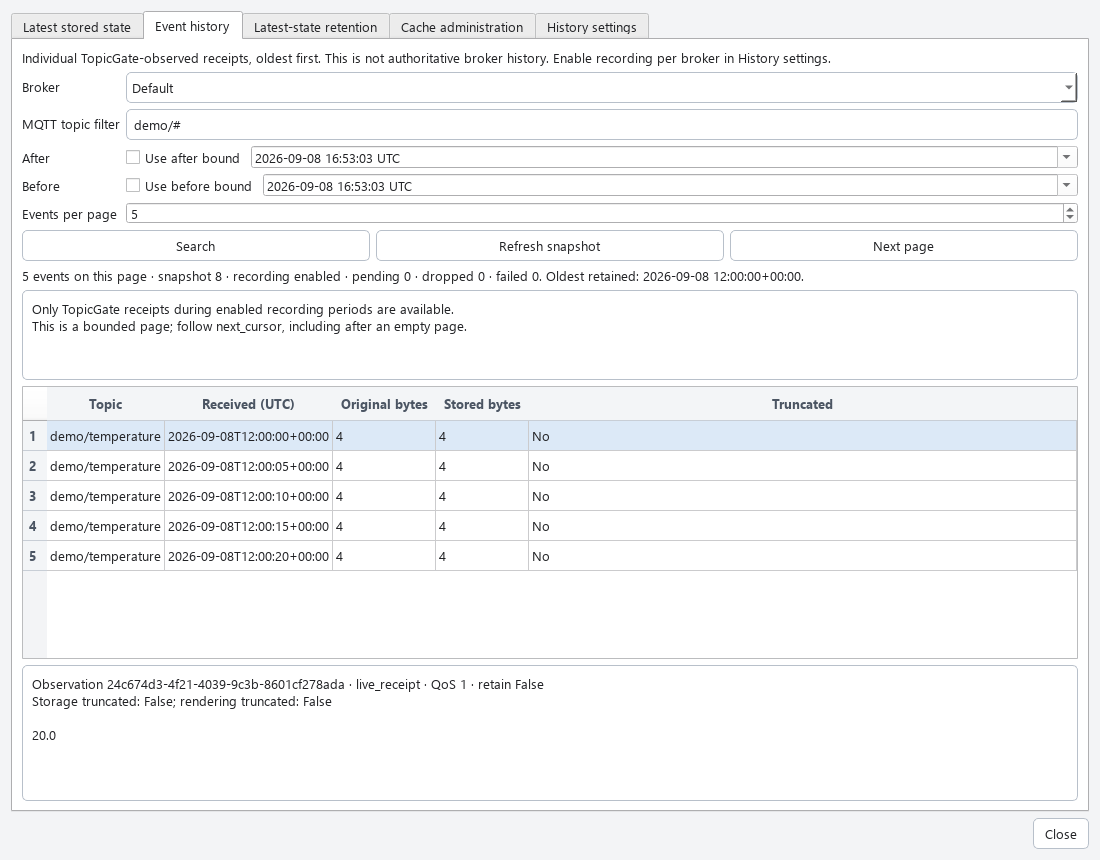
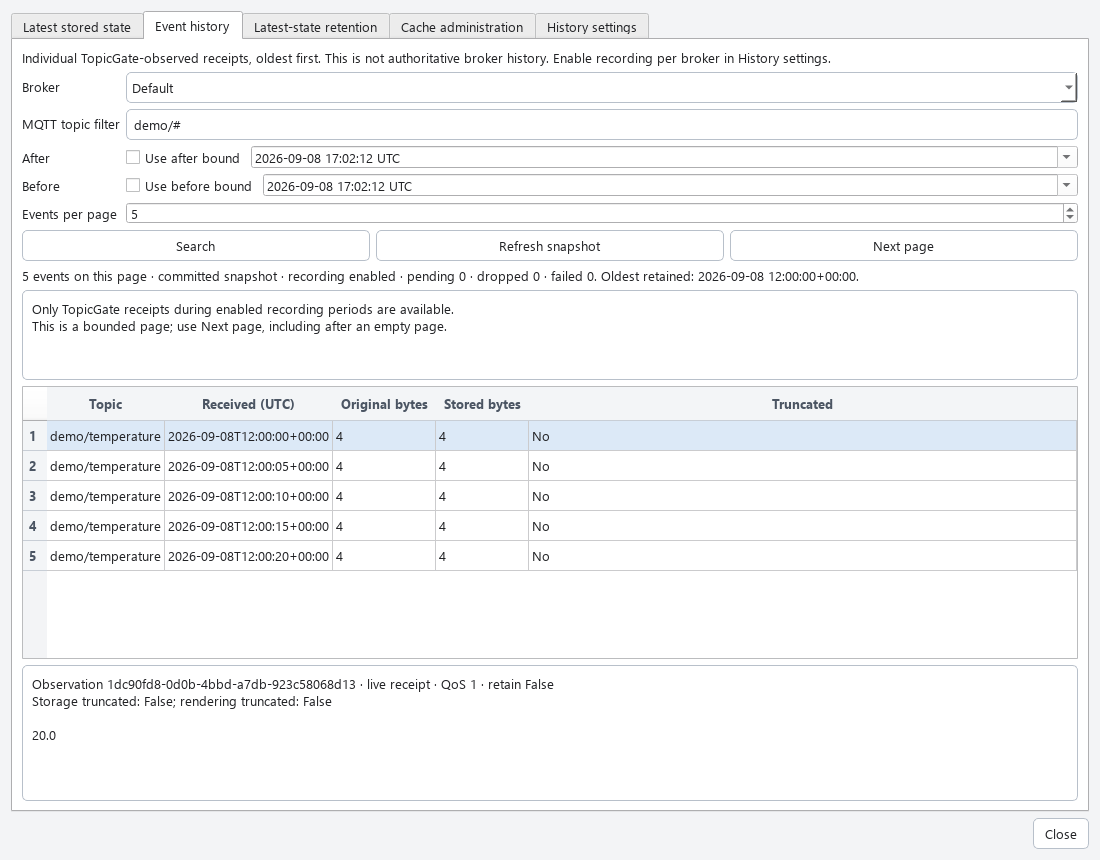
ObservationHistory: Harden Drain And Persistence Boundaries

diff --git a/tests/test_history_recording_service.py b/tests/test_history_recording_service.py
@@ -87,6 +87,63 @@ def test_writer_failure_is_visible_and_later_writes_continue(history_store):
     assert HistoryRecordingRepository(db).status(broker).failed == 1
 
 
+def test_checkpoint_failure_is_explicit_without_corrupting_event_store(history_store):
+    db, store, broker = history_store
+    settings = HistoryRecordingRepository(db)
+    service = HistoryRecordingService(store, settings)
+    service.set_enabled(broker, True)
+    settings.checkpoint = Mock(side_effect=RuntimeError("synthetic failure"))
+    service.record(event(broker))
+    with pytest.raises(RuntimeError, match="incomplete"):
+        service.close()
+    assert service.status(broker).checkpoint_failed
+    assert len(store.scan(broker).events) == 1
+    persisted = HistoryRecordingRepository(db).status(broker)
+    assert persisted.previous_unclean
+    assert persisted.pending == 0
+
+
+def test_broker_drain_failure_aborts_deletion_and_restores_admission(history_store):
+    from concurrent.futures import ThreadPoolExecutor
+
+    db, store, broker = history_store
+    entered, release = Event(), Event()
+
+    def fail_append(_events):
+        entered.set()
+        assert release.wait(5)
+        raise RuntimeError("synthetic failure")
+
+    writer = Mock(append=fail_append)
+    service = HistoryRecordingService(writer, HistoryRecordingRepository(db))
+    service.set_enabled(broker, True)
+    service.record(event(broker))
+    assert entered.wait(2)
+    original_flush = service.flush
+    draining = Event()
+
+    def signal_flush(*args, **kwargs):
+        draining.set()
+        return original_flush(*args, **kwargs)
+
+    service.flush = signal_flush
+    try:
+        with ThreadPoolExecutor() as executor:
+            future = executor.submit(service.quiesce_broker, broker)
+            assert draining.wait(2)
+            release.set()
+            with pytest.raises(RuntimeError, match="deletion was aborted"):
+                future.result(timeout=3)
+        writer.append = store.append
+        service.record(event(broker, 2))
+        service.flush()
+        assert service.status(broker).committed == 1
+    finally:
+        release.set()
+        with pytest.raises(RuntimeError, match="incomplete"):
+            service.close()
+
+
 def test_shutdown_timeout_keeps_writer_alive_until_drain(history_store):
     db, store, broker = history_store
     entered, release = Event(), Event()

diff --git a/tests/test_observation_history_repository.py b/tests/test_observation_history_repository.py
@@ -93,3 +93,40 @@ def test_payload_and_provenance_round_trip(history_store):
     store.append((item,))
     assert store.scan(broker).events == (item,)
     assert not store.scan(uuid4()).events
+
+
+def test_non_utc_receipt_is_normalized_before_sqlite_ordering(history_store):
+    from datetime import timedelta
+
+    _, store, broker = history_store
+    first = event(broker, 1, received_at=datetime(2026, 1, 1, 2, tzinfo=timezone(timedelta(hours=2))))
+    second = event(broker, 2)
+    store.append((first, second))
+    page = store.scan(broker)
+    assert [item.observation_id.int for item in page.events] == [1, 2]
+    assert page.events[0].received_at == page.events[1].received_at
+    with pytest.raises(ValueError, match="timezone"):
+        store.append((event(broker, 3, received_at=datetime(2026, 1, 1)),))
+    assert len(store.scan(broker).events) == 2
+
+
+def test_upgrade_does_not_manufacture_events_from_latest_state(history_store):
+    from topicgate.core.models.topic_message import TopicMessage
+    from topicgate.infrastructure.repository.topic_message_repository import TopicMessageRepository
+
+    db, store, broker = history_store
+    item = event(broker)
+    latest = TopicMessageRepository(db)
+    latest.record_message(TopicMessage(broker, item.topic, item.payload, item.qos,
+                                      item.retain, item.received_at, item.payload_size,
+                                      1, item.observation_id))
+    latest.close()
+    with db._engine.begin() as connection:
+        command.downgrade(_alembic_config(connection), "c4d8a7e1f302")
+        command.upgrade(_alembic_config(connection), "head")
+    assert not store.scan(broker).events
+    restored = TopicMessageRepository(db)
+    try:
+        assert restored.get_message(item.observation_id).payload == item.payload
+    finally:
+        restored.close()

diff --git a/tests/test_history_retention.py b/tests/test_history_retention.py
@@ -101,3 +101,37 @@ def test_empty_payloads_are_count_bounded(history_store):
     retention.set_policy(HistoryRetentionPolicy(max_age_seconds=None, max_events_per_broker=1))
     store.append(tuple(event(broker, n, payload=b"", payload_size=0) for n in range(1, 4)))
     assert retention.prune(event(broker).received_at).by_reason == {"broker_count": 2}
+
+
+def test_large_age_limit_does_not_overflow_datetime(history_store):
+    db, store, broker = history_store
+    retention = HistoryRetentionRepository(db)
+    retention.set_policy(HistoryRetentionPolicy(max_age_seconds=2**63 - 1))
+    store.append((event(broker),))
+    assert retention.prune(event(broker).received_at).deleted == 0
+    with pytest.raises(ValueError):
+        HistoryRetentionPolicy(max_payload_bytes=2**63)
+
+
+async def test_pruning_failure_is_visible_and_service_stops_without_disposal_race():
+    import asyncio
+    from threading import Event
+    from unittest.mock import Mock
+    from topicgate.app.services.history_retention_service import HistoryRetentionService
+    from topicgate.core.models.history_retention import HistoryUsage
+
+    attempted = Event()
+
+    def fail(_now):
+        attempted.set()
+        raise RuntimeError("synthetic failure")
+
+    store = Mock()
+    store.prune.side_effect = fail
+    store.usage.return_value = HistoryUsage(None, 0, 0, None, None, 0)
+    service = HistoryRetentionService(store)
+    await service.start()
+    assert await asyncio.to_thread(attempted.wait, 2)
+    await service.stop()
+    assert service.last_error == "History pruning failed; retention enforcement is pending."
+    assert service.usage().enforcement_pending

diff --git a/src/topicgate/app/services/history_recording_service.py b/src/topicgate/app/services/history_recording_service.py
@@ -17,6 +17,8 @@ class HistoryRecordingService:
         self, writer: ObservationHistoryWriter, store: HistoryRecordingStore,
         *, max_events: int = 1000, max_bytes: int = 16 * 1024 * 1024,
     ) -> None:
+        if any(type(value) is not int or value <= 0 for value in (max_events, max_bytes)):
+            raise ValueError("History queue bounds must be positive integers.")
         self._writer = writer
         self._store = store
         self._max_events = max_events
@@ -111,7 +113,21 @@ class HistoryRecordingService:
     def quiesce_broker(self, broker_id: UUID) -> None:
         with self._condition:
             self._quiesced.add(broker_id)
-        self.flush(broker_id)
+            status = self._statuses.get(broker_id)
+            failed_before = 0 if status is None else status.failed
+        try:
+            self.flush(broker_id)
+            with self._condition:
+                status = self._statuses.get(broker_id)
+                if status is not None and status.failed > failed_before:
+                    raise RuntimeError("History drain was incomplete; broker deletion was aborted.")
+        except Exception:
+            self.resume_broker(broker_id)
+            raise
+
+    def resume_broker(self, broker_id: UUID) -> None:
+        with self._condition:
+            self._quiesced.discard(broker_id)
 
     def forget_broker(self, broker_id: UUID) -> None:
         with self._condition:

diff --git a/tests/test_persistence_lifecycle.py b/tests/test_persistence_lifecycle.py
@@ -1,4 +1,5 @@
 from unittest.mock import MagicMock
+import pytest
 
 from topicgate.app.services.persistence_lifecycle import PersistenceLifecycle
 
@@ -15,3 +16,24 @@ async def test_persistence_lifecycle_closes_repository_before_database() -> None
     await lifecycle.stop()
 
     assert events == ["messages", "database"]
+
+
+async def test_incomplete_history_shutdown_does_not_dispose_a_live_writer() -> None:
+    history = MagicMock()
+    history.close.side_effect = TimeoutError("History drain timed out.")
+    history.is_alive = True
+    messages, database = MagicMock(), MagicMock()
+    with pytest.raises(ExceptionGroup, match="incomplete"):
+        await PersistenceLifecycle(messages, database, history).stop()
+    messages.close.assert_called_once()
+    database.dispose.assert_not_called()
+
+
+async def test_failed_history_writer_still_releases_idle_database() -> None:
+    history = MagicMock()
+    history.close.side_effect = RuntimeError("History write failed.")
+    history.is_alive = False
+    messages, database = MagicMock(), MagicMock()
+    with pytest.raises(ExceptionGroup, match="incomplete"):
+        await PersistenceLifecycle(messages, database, history).stop()
+    database.dispose.assert_called_once()

diff --git a/src/topicgate/gui/components/event_history_widget.py b/src/topicgate/gui/components/event_history_widget.py
@@ -1,4 +1,7 @@
+from __future__ import annotations
+
 from datetime import timezone
+from typing import TYPE_CHECKING
 
 from PySide6.QtCore import QDateTime, Qt, Signal
 from PySide6.QtWidgets import (
@@ -7,11 +10,14 @@ from PySide6.QtWidgets import (
     QTableWidgetItem, QVBoxLayout, QWidget,
 )
 
+if TYPE_CHECKING:
+    from topicgate.gui.main_view_model import MainViewModel
+
 
 class EventHistoryWidget(QWidget):
     query_requested = Signal(object, str, object, object, object, int)
 
-    def __init__(self, view_model, parent=None) -> None:
+    def __init__(self, view_model: MainViewModel, parent: QWidget | None = None) -> None:
         super().__init__(parent)
         self._view_model = view_model
         layout = QVBoxLayout(self)
@@ -88,7 +94,7 @@ class EventHistoryWidget(QWidget):
         view_model.event_history_changed.connect(self.render)
 
     @staticmethod
-    def _time_filter(form, title):
+    def _time_filter(form: QFormLayout, title: str) -> tuple[QCheckBox, QDateTimeEdit]:
         enabled = QCheckBox(f"Use {title.lower()} bound")
         editor = QDateTimeEdit(QDateTime.currentDateTimeUtc())
         editor.setDisplayFormat("yyyy-MM-dd HH:mm:ss 'UTC'")

diff --git a/src/topicgate/app/topicgate_runtime.py b/src/topicgate/app/topicgate_runtime.py
@@ -1,3 +1,4 @@
+import asyncio
 from collections.abc import AsyncIterator, Callable
 from contextlib import nullcontext
 from dataclasses import replace
@@ -444,8 +445,13 @@ class TopicGateRuntime(ServiceItem):
                 self._observation_cache.flush_pending_writes()
             if self._history_recording is not None:
                 await self._mqtt_repositories[profile.id].stop()
-                self._history_recording.quiesce_broker(profile.id)
-            deleted = self._brokers.delete_profile(profile.id)
+                await asyncio.to_thread(self._history_recording.quiesce_broker, profile.id)
+            try:
+                deleted = self._brokers.delete_profile(profile.id)
+            except Exception:
+                if self._history_recording is not None:
+                    self._history_recording.resume_broker(profile.id)
+                raise
             if self._history_recording is not None:
                 self._history_recording.forget_broker(profile.id)
             self._mqtt_repositories.pop(profile.id)

diff --git a/tests/test_service_container.py b/tests/test_service_container.py
@@ -1,4 +1,5 @@
 import asyncio
+import pytest
 from topicgate.app.services.service_container import ServiceContainer
 
 
@@ -17,6 +18,20 @@ class FakeService:
 class FakeDependencies:
     def __init__(self, service_items: tuple[FakeService, ...]) -> None:
         self.service_items = service_items
+
+
+async def test_shutdown_failure_still_stops_other_started_services() -> None:
+    class FailingService(FakeService):
+        async def stop(self) -> None:
+            raise RuntimeError("synthetic failure")
+
+    events = []
+    container = ServiceContainer(FakeDependencies((FakeService("persistence", events),
+                                                   FailingService("runtime", events))))
+    await container.start_services()
+    with pytest.raises(ExceptionGroup, match="incomplete"):
+        await container.stop_services()
+    assert events[-1] == "stop:persistence"
 
 
 async def test_container_starts_services_in_registration_order_and_stops_in_reverse() -> None:

diff --git a/src/topicgate/gui/main_view_model.py b/src/topicgate/gui/main_view_model.py
@@ -11,6 +11,9 @@ from uuid import UUID, uuid4
 from PySide6.QtCore import QObject, Signal
 
 from topicgate.app.models.broker_snapshot import BrokerSnapshot
+from topicgate.app.models.topic_history import TopicHistoryResult
+from topicgate.core.models.history_retention import HistoryRetentionPolicy, HistoryUsage
+from topicgate.core.models.history_recording import HistoryRecordingStatus
 from topicgate.app.models.expectation_health_report import (
     ExpectationHealthReport,
     FailureHistoryResult,
@@ -92,11 +95,6 @@ from topicgate.presentation.health_presentation import (
     topic_health_summary,
 )
 from topicgate.processors.condition_factory import ConditionFactory
-
-
-from topicgate.core.models.history_retention import HistoryRetentionPolicy, HistoryUsage
-from topicgate.app.models.topic_history import TopicHistoryResult
-from topicgate.core.models.history_recording import HistoryRecordingStatus
 
 
 class MainViewModel(QObject):

diff --git a/src/topicgate/gui/components/stored_observations_dialog.py b/src/topicgate/gui/components/stored_observations_dialog.py
@@ -29,6 +29,8 @@ from topicgate.core.models.observation_retention_policy import (
 )
 from topicgate.core.models.message_filter import OrderType
 from topicgate.gui.main_view_model import MainViewModel
+from topicgate.gui.components.history_settings_widget import HistorySettingsWidget
+from topicgate.gui.components.event_history_widget import EventHistoryWidget
 from topicgate.presentation.retention_presentation import (
     AgeUnit,
     ByteUnit,
@@ -59,10 +61,6 @@ class _QuantityEditor(QWidget):
         layout.addWidget(self.unit)
         self.value.textChanged.connect(lambda _text: self.changed.emit())
         self.unit.currentIndexChanged.connect(lambda _index: self.changed.emit())
-
-
-from topicgate.gui.components.history_settings_widget import HistorySettingsWidget
-from topicgate.gui.components.event_history_widget import EventHistoryWidget
 
 
 class StoredObservationsDialog(QDialog):

diff --git a/src/topicgate/infrastructure/repository/history_retention_repository.py b/src/topicgate/infrastructure/repository/history_retention_repository.py
@@ -73,8 +73,12 @@ class HistoryRetentionRepository:
                     remaining -= len(ids)
 
             if policy.max_age_seconds is not None:
+                minimum = datetime.min.replace(tzinfo=timezone.utc)
+                seconds_since_minimum = (now - minimum).total_seconds()
+                cutoff = (minimum if policy.max_age_seconds >= seconds_since_minimum
+                          else now - timedelta(seconds=policy.max_age_seconds))
                 remove(select(row.observation_id).where(
-                    row.received_at < now - timedelta(seconds=policy.max_age_seconds)), "age")
+                    row.received_at < cutoff), "age")
             for partition, maximum, reason in (
                 ([row.broker_id, row.topic], policy.max_events_per_topic, "topic_count"),
                 ([row.broker_id], policy.max_events_per_broker, "broker_count"),

diff --git a/src/topicgate/gui/components/history_settings_widget.py b/src/topicgate/gui/components/history_settings_widget.py
@@ -1,3 +1,7 @@
+from __future__ import annotations
+
+from typing import TYPE_CHECKING
+
 from PySide6.QtCore import Signal, Qt
 from PySide6.QtWidgets import (
     QCheckBox, QComboBox, QFormLayout, QLabel, QLineEdit, QPushButton,
@@ -6,12 +10,15 @@ from PySide6.QtWidgets import (
 
 from topicgate.core.models.history_retention import HistoryRetentionPolicy
 
+if TYPE_CHECKING:
+    from topicgate.gui.main_view_model import MainViewModel
+
 
 class HistorySettingsWidget(QWidget):
     load_requested = Signal(object)
     save_requested = Signal(object, bool, object)
 
-    def __init__(self, view_model, parent=None) -> None:
+    def __init__(self, view_model: MainViewModel, parent: QWidget | None = None) -> None:
         super().__init__(parent)
         self._view_model = view_model
         self._loaded = False
